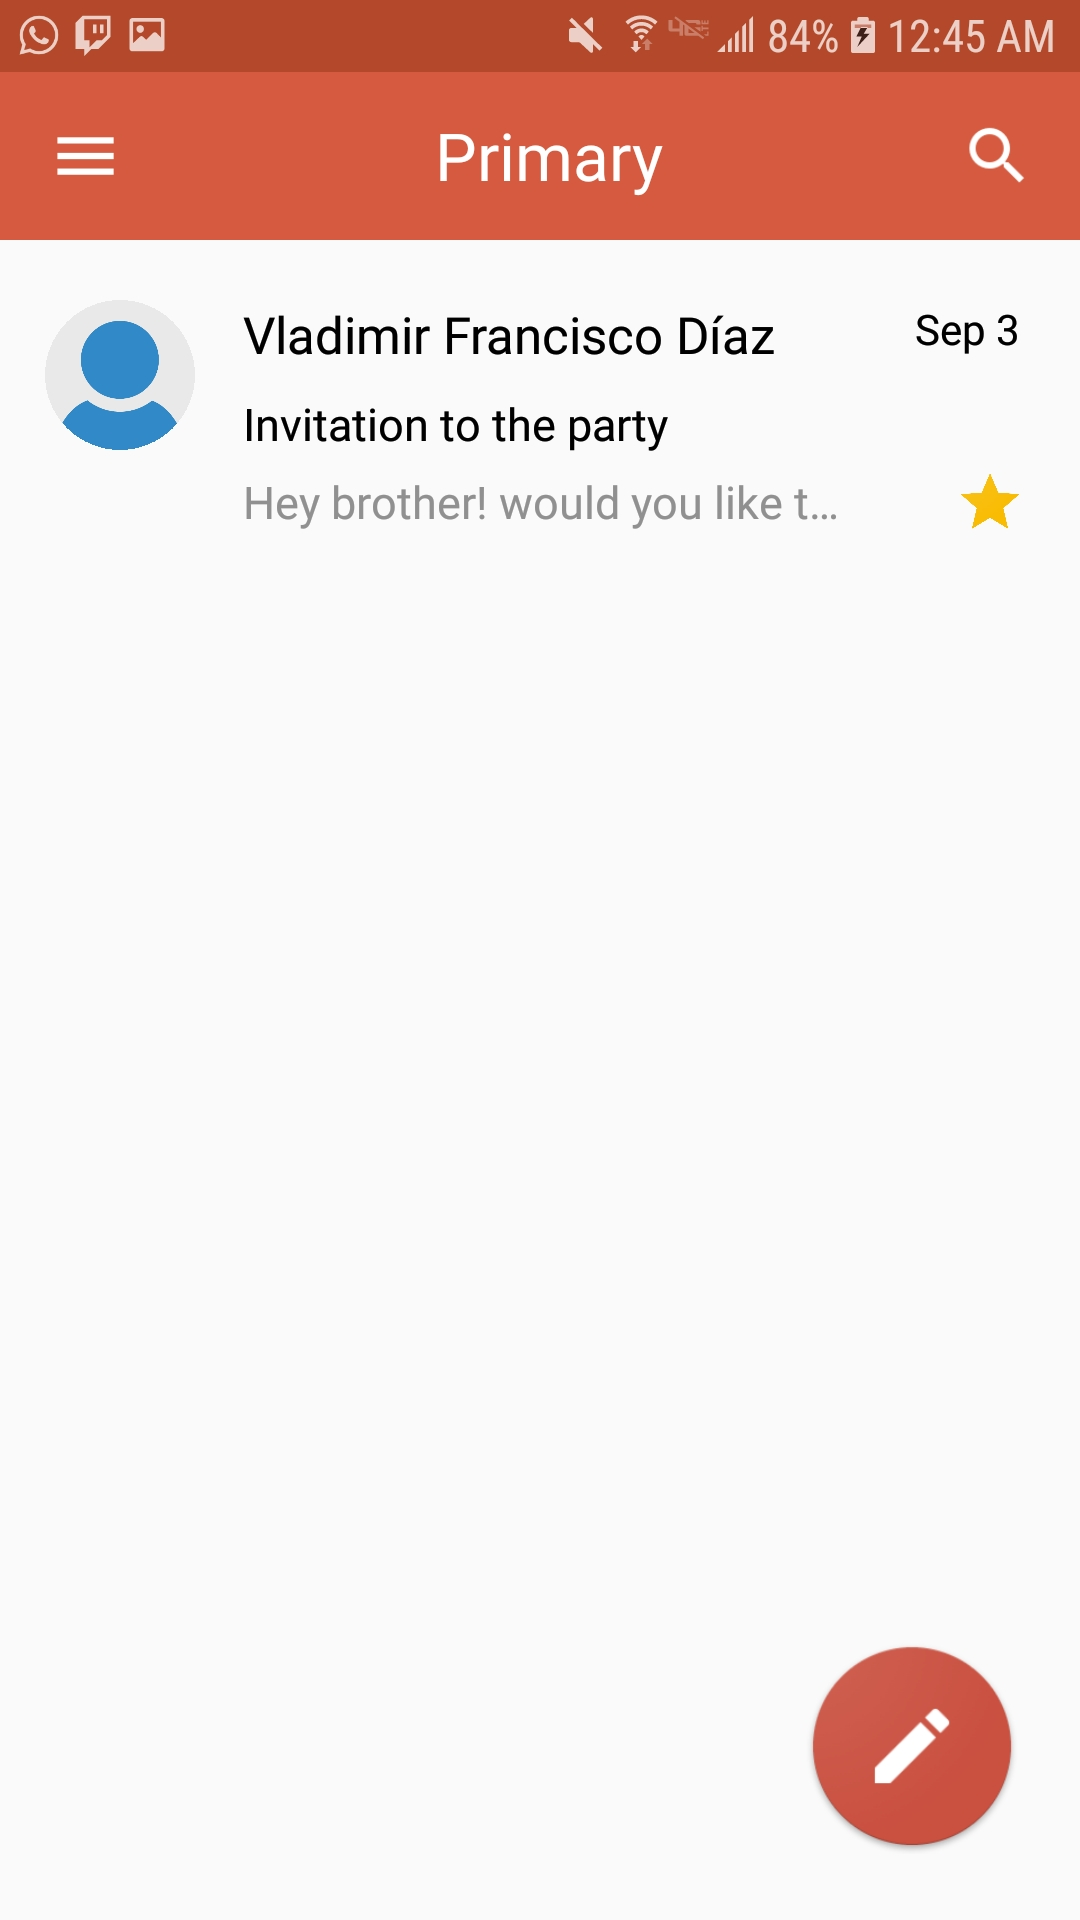
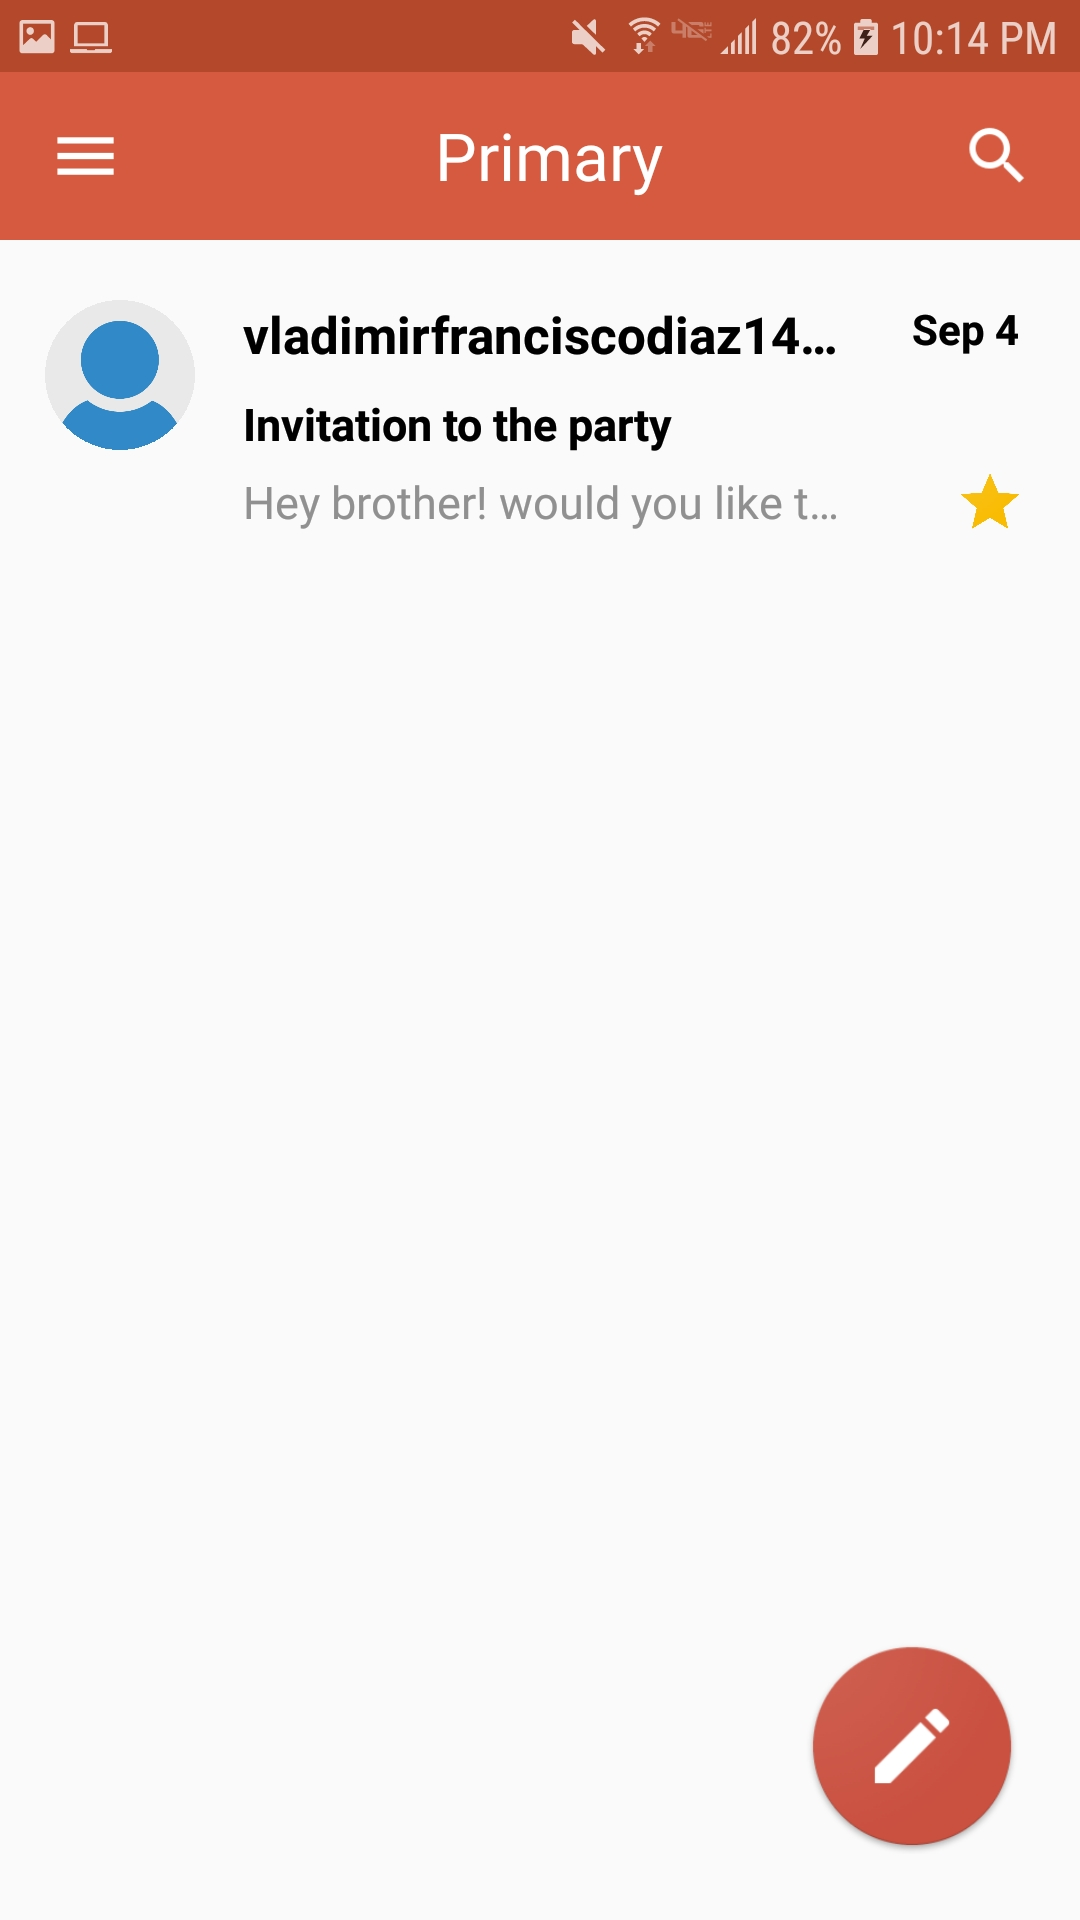
Update screenshots

diff --git a/EmailApp/EmailApp/Views/MailDetailPage.xaml b/EmailApp/EmailApp/Views/MailDetailPage.xaml
@@ -11,12 +11,12 @@
         </Grid>
     </NavigationPage.TitleView>
     <StackLayout>
-        <Grid RowDefinitions="*" ColumnDefinitions="*,40" Padding="20,0,20,0">
+        <Grid RowDefinitions="Auto" ColumnDefinitions="*,40" Padding="20,10,20,10">
             <Label Grid.Row="0" Grid.Column="0" Text="{Binding Title}" VerticalOptions="Center" FontSize="Large" TextColor="Black"/>
-            <ImageButton Grid.Row="0" Grid.Column="1" HorizontalOptions="EndAndExpand" Source="{Binding FavoriteStarImage}" Command="{Binding}" BackgroundColor="Transparent" WidthRequest="25"/>
+            <ImageButton Grid.Row="0" Grid.Column="1" HorizontalOptions="EndAndExpand" Source="{Binding FavoriteStarImage}" BackgroundColor="Transparent" WidthRequest="25"/>
         </Grid>
         <BoxView Color="#DDD" HeightRequest="1"/>
-        <Grid  ColumnDefinitions="70,*,40,40" RowDefinitions="*,*,20" Padding="5,20,20,20">
+        <Grid  ColumnDefinitions="70,*,40,40" RowDefinitions="Auto,Auto,20" Padding="5,20,20,20">
             <controls:CircleImage Source="{Binding UserImage}" Grid.Row="0" Grid.Column="0" Grid.RowSpan="3" HorizontalOptions="Center" WidthRequest="50" VerticalOptions="StartAndExpand"/>
 
             <Label Text="{Binding From}"  Grid.Row="0" Grid.Column="1" FontSize="17" TextColor="Black" VerticalOptions="Start"/>
